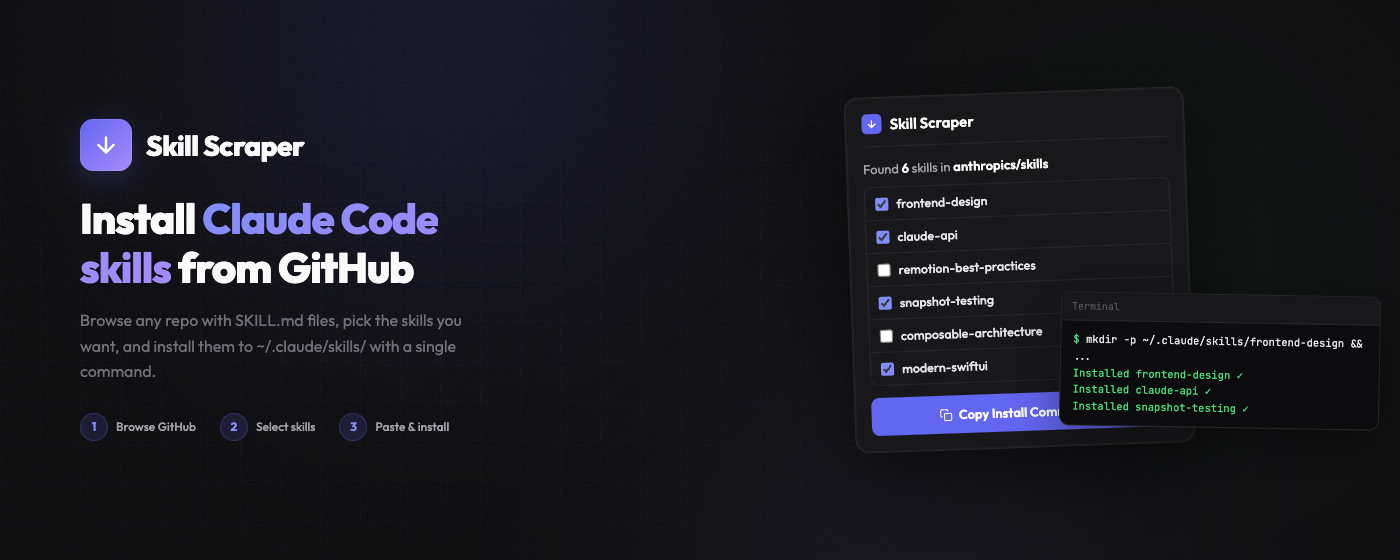
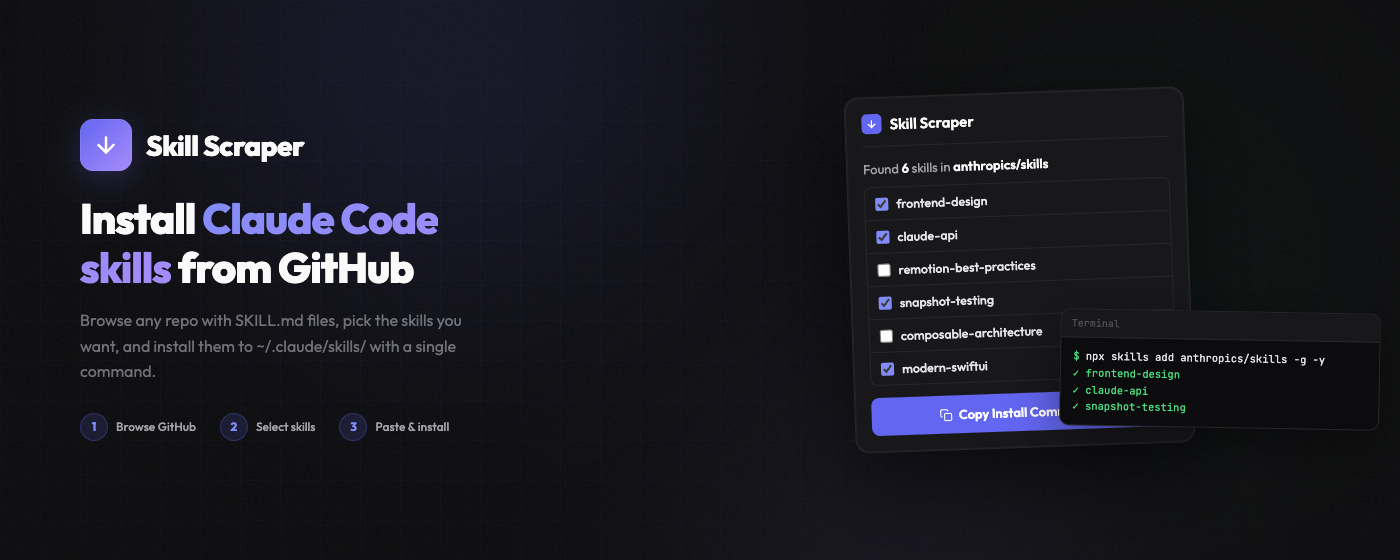
Use npx skills add instead of curl for install commands
Switch from raw curl commands to the vercel-labs/skills CLI
(npx skills add) for a cleaner install experience.

Changed region(s): [[0.7679, 0.5464, 0.9829, 0.7589]]

diff --git a/utils/github.js b/utils/github.js
@@ -58,24 +58,15 @@ export function getApiContentsUrl(owner, repo, path) {
 }
 
 export function buildInstallCommand(owner, repo, branch, skillName, skillPath) {
-  const rawUrl = getRawUrl(owner, repo, branch, skillPath);
-  return `mkdir -p ~/.claude/skills/${skillName} && curl -sL "${rawUrl}" > ~/.claude/skills/${skillName}/SKILL.md`;
+  const repoSlug = `${owner}/${repo}`;
+  return `npx skills add ${repoSlug} -s ${skillName} -g -y`;
 }
 
 export function buildBatchInstallCommand(owner, repo, branch, skills) {
+  const repoSlug = `${owner}/${repo}`;
   if (skills.length === 1) {
-    return buildInstallCommand(
-      owner,
-      repo,
-      branch,
-      skills[0].name,
-      skills[0].path
-    );
+    return `npx skills add ${repoSlug} -s ${skills[0].name} -g -y`;
   }
-  const base = getRawUrl(owner, repo, branch, "");
-  const lines = skills.map((s) => {
-    const rawUrl = `${base}${s.path}`;
-    return `mkdir -p ~/.claude/skills/${s.name} && curl -sL "${rawUrl}" > ~/.claude/skills/${s.name}/SKILL.md && echo "Installed ${s.name}"`;
-  });
-  return lines.join(" && \\\n");
+  const skillNames = skills.map((s) => s.name).join(",");
+  return `npx skills add ${repoSlug} -s ${skillNames} -g -y`;
 }

diff --git a/graphics/screenshot-3-copied.html b/graphics/screenshot-3-copied.html
@@ -259,10 +259,8 @@
         <div class="terminal">
           <div class="terminal-bar">Terminal</div>
           <div class="terminal-body">
-            <span class="prompt">$ </span><span class="cmd">mkdir -p ~/.claude/skills/frontend-design && \</span><br>
-            <span class="cmd">&nbsp;&nbsp;curl -sL "https://raw.githubusercontent.com/..." \</span><br>
-            <span class="cmd">&nbsp;&nbsp;&gt; ~/.claude/skills/frontend-design/SKILL.md</span><br><br>
-            <span class="success">Installed frontend-design ✓</span>
+            <span class="prompt">$ </span><span class="cmd">npx skills add anthropics/skills -s frontend-design -g -y</span><br><br>
+            <span class="success">✓ Installed frontend-design globally</span>
           </div>
         </div>
       </div>

diff --git a/graphics/marquee-1400x560.html b/graphics/marquee-1400x560.html
@@ -241,10 +241,10 @@
     <div class="terminal-float">
       <div class="terminal-bar">Terminal</div>
       <div class="terminal-body">
-        <span class="prompt">$ </span><span class="cmd">mkdir -p ~/.claude/skills/frontend-design && ...</span><br>
-        <span class="success">Installed frontend-design ✓</span><br>
-        <span class="success">Installed claude-api ✓</span><br>
-        <span class="success">Installed snapshot-testing ✓</span>
+        <span class="prompt">$ </span><span class="cmd">npx skills add anthropics/skills -g -y</span><br>
+        <span class="success">✓ frontend-design</span><br>
+        <span class="success">✓ claude-api</span><br>
+        <span class="success">✓ snapshot-testing</span>
       </div>
     </div>
   </div>

diff --git a/README.md b/README.md
@@ -6,7 +6,7 @@
 
 <p align="center">
   <strong>Install Claude Code skills from GitHub with one click</strong><br>
-  A Chrome extension that detects SKILL.md files on GitHub and copies a ready-to-run install command to your clipboard.
+  A Chrome extension that detects SKILL.md files on GitHub and generates <code>npx skills add</code> commands to install them.
 </p>
 
 <p align="center">
@@ -22,8 +22,8 @@
 
 1. Browse any GitHub repo containing SKILL.md files
 2. Click the extension icon — detected skills appear instantly
-3. Hit **Copy Install Command** and paste it in your terminal
-4. Done — the skill is installed to `~/.claude/skills/`
+3. Hit **Copy Install Command** — copies an `npx skills add` command
+4. Paste in your terminal — done!
 
 ### Single Skill
 
@@ -39,7 +39,7 @@ Browse a skills repo and batch-install the ones you want.
 
 ### One Command
 
-The install command is copied to your clipboard — paste it in your terminal.
+The `npx skills add` command is copied to your clipboard — paste it in your terminal.
 
 <img src="graphics/screenshot-3-copied.png" alt="Command copied" width="800">
 
